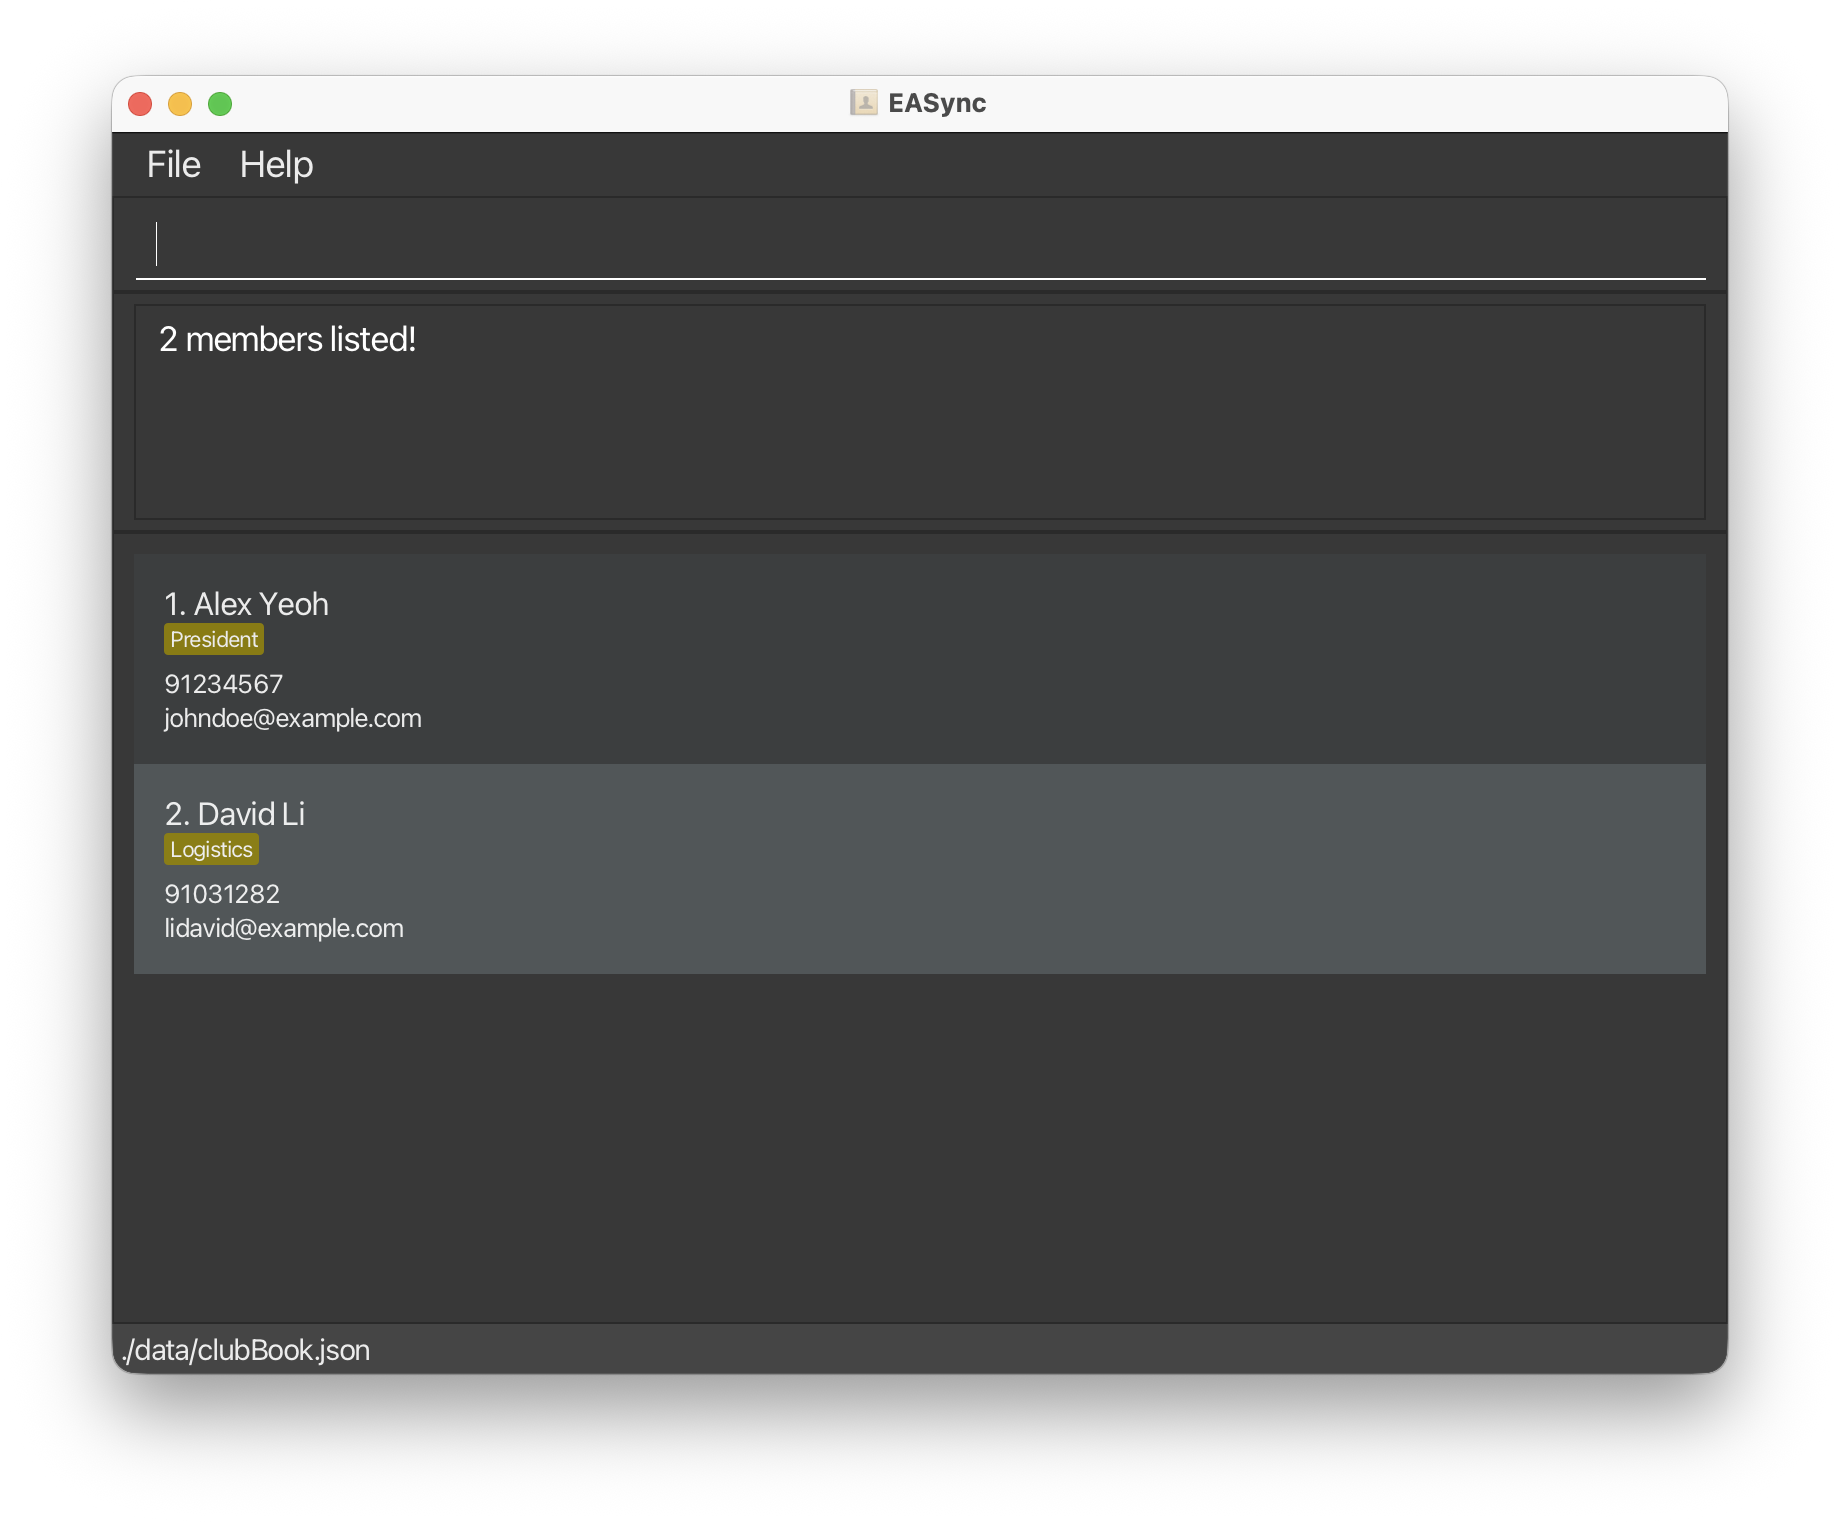
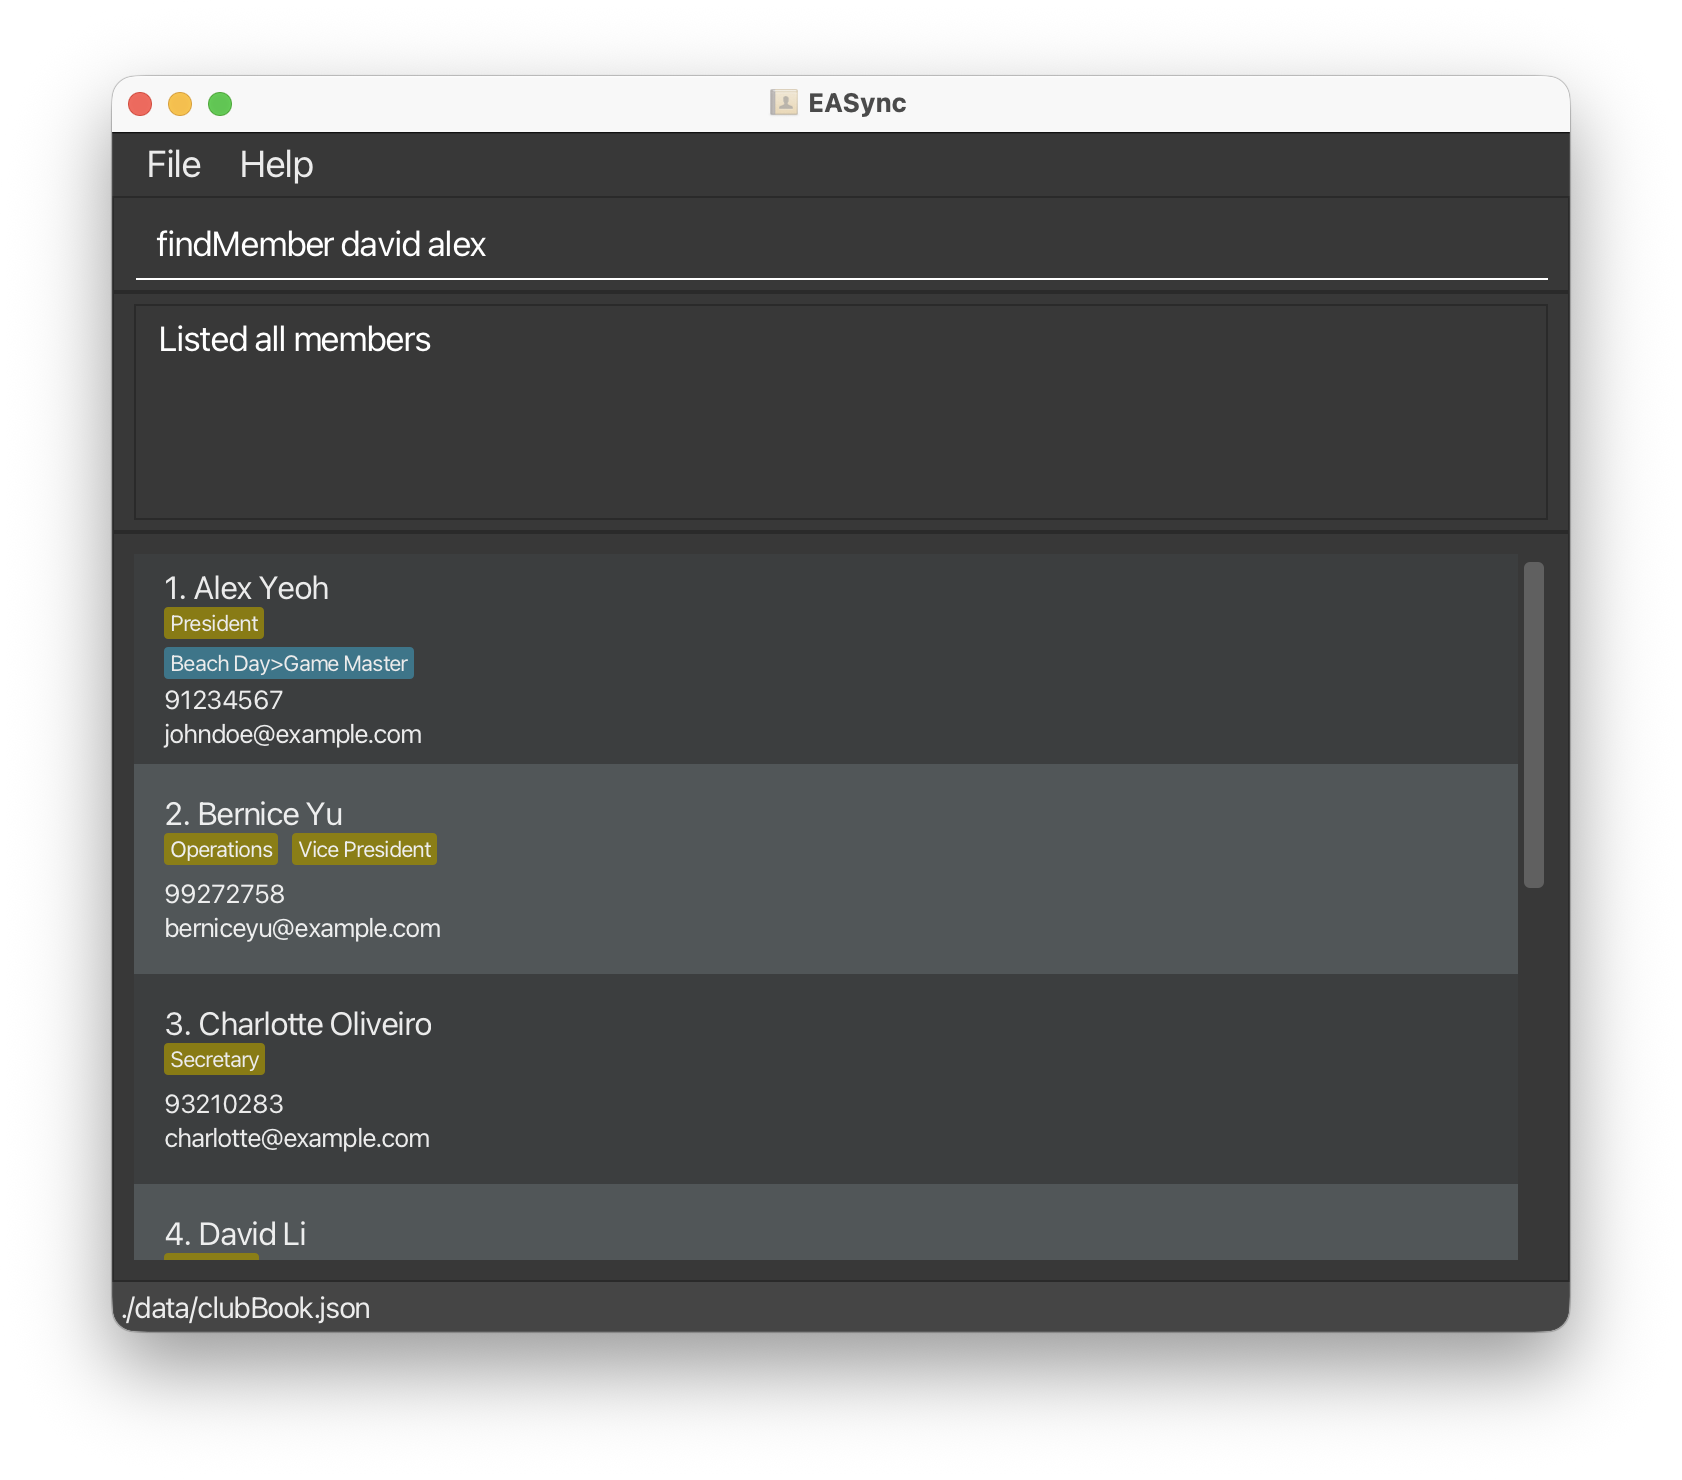
Add ss for UG

Changed region(s): [[0.0618, 0.0622, 0.9584, 0.9014]]

diff --git a/docs/UserGuide.md b/docs/UserGuide.md
@@ -210,7 +210,8 @@ Examples:
 * `findMember John` returns `john` and `John Doe`
 * `findMember alex david` returns `Alex Yeoh`, `David Li`<br>
 
-![finMember](images/findMember.png)
+![findMember](images/findMember.png)
+![findMemberResult](images/findMemberResult.png)
 
 <box type="warning">
 
@@ -312,6 +313,8 @@ Format: `event INDEX`
 Examples:
 * `listEvents` then `event 2` displays the full content of the 2nd event in the displayed event list.
 
+![eventCommand](images/eventCommand.png)
+
 <ins>[To command summary](#command-summary)</ins>
 
 ### Managing Event Participants
@@ -333,6 +336,9 @@ Examples:
 * `assignEvent e/Orientation m/Alice Pauline`
 * `assignEvent e/Movie Night m/Benson Meier r/FoodIC`
 
+![assignEvent](images/assignEvent.png)
+![assignEventResult](images/assignEventResult.png)
+
 <box type="warning">
 
 **Caution:** **Once a member has been assigned to an event, their roles for that event cannot be edited directly.**
@@ -353,7 +359,9 @@ Format: `unassignEvent e/EVENT m/MEMBER`
 * All associated event roles in the member's event roles list are removed, if any.
 
 Examples:
-*  `unassignEvent e/Workshop m/Jane`
+*  `unassignEvent e/Orientation m/Alice Pauline`
+
+![unassignEvent](images/unassignEvent.png)
 
 <ins>[To command summary](#command-summary)</ins>
 
@@ -365,7 +373,9 @@ Format: `unassignEventRole e/EVENT m/MEMBER r/EVENT_ROLE…`
 * Multiple event roles can be specified.
 
 Examples:
-*  `unassignEventRole e/Meeting m/Bob r/Logistics r/Publicity`
+*  `unassignEventRole e/Beach Day m/Alex Yeoh r/Game Master`
+
+![unassignEventRole](images/unassignEventRole.png)
 
 <ins>[To command summary](#command-summary)</ins>
 
@@ -375,6 +385,8 @@ Examples:
 Format: `clear`
 
 * Clears **all members and events** from the club book.
+
+![clear](images/clear.png)
 
 <box type="warning">
 
